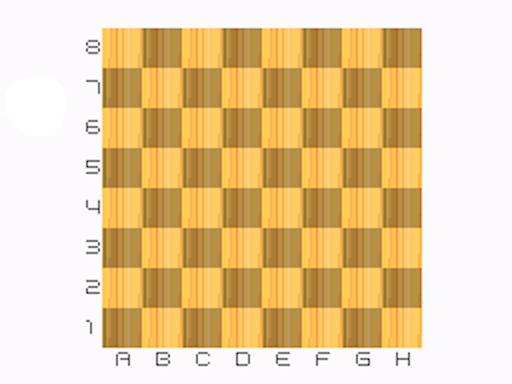
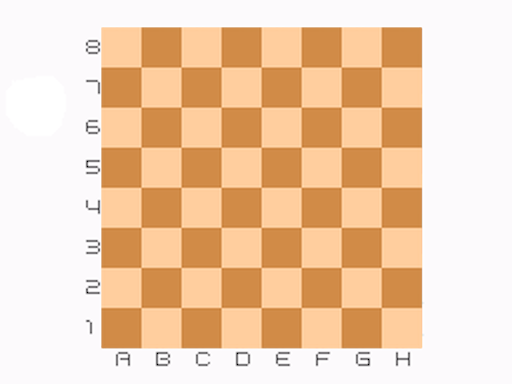
Now with free sprite images

diff --git a/battleChess.py b/battleChess.py
@@ -42,18 +42,18 @@ class BoardPlayer(Board):
 				if c == '':
 					continue
 				else :
-					dx = 2
-					dy = 2
+					dx = 0
+					dy = 0
 					if c[1] == 'b':
-						dx += 84
+						dx += 72
 					if c[0] in ['n', 'r', 'b']:
-						dx += 42
+						dx += 36
 					if c[0] in ['q', 'r']:
-						dy += 42
+						dy += 36
 					if c[0] in ['p', 'b']:
-						dy += 84
+						dy += 72
 					patch_rect = (dx, dy, 36, 36)
-					screen.blit(self.sprite_pieces, (106+j*40, 30+i*40), patch_rect)
+					screen.blit(self.sprite_pieces, (104+j*40, 30+i*40), patch_rect)
 		if turn != None:
 			self.visibility = [[False for i in xrange(8)] for j in xrange(8)]
 			# get white piece
@@ -73,7 +73,7 @@ class BoardPlayer(Board):
 			for i in xrange(8):
 				for j in xrange(8):
 					if not self.visibility[i][j] :
-						screen.blit(fog, (106+j*40, 30+i*40))		
+						screen.blit(fog, (105+j*40, 30+i*40))
 		# draw possible displacement positions	
 		s = pygame.Surface((34, 34))
 		s.set_alpha(128)
@@ -85,25 +85,25 @@ class BoardPlayer(Board):
 		# draw taken pieces
 		# white 
 		for i, p in enumerate([p for p in self.taken if p[1] == 'w']) :
-			dx = 2
-			dy = 2
+			dx = 0
+			dy = 0
 			if p[0] in ['n', 'r', 'b']:
-				dx += 42
+				dx += 36
 			if p[0] in ['q', 'r']:
-				dy += 42
+				dy += 36
 			if p[0] in ['p', 'b']:
-				dy += 84
+				dy += 72
 			patch_rect = (dx, dy, 36, 36)
 			screen.blit(self.sprite_pieces, (6+(i%2)*40, 20+(i/2)*40), patch_rect)
 		for i, p in enumerate([p for p in self.taken if p[1] == 'b']) :
-			dx = 86
-			dy = 2
+			dx = 72
+			dy = 0
 			if p[0] in ['n', 'r', 'b']:
-				dx += 42
+				dx += 36
 			if p[0] in ['q', 'r']:
-				dy += 42
+				dy += 36
 			if p[0] in ['p', 'b']:
-				dy += 84
+				dy += 72
 			patch_rect = (dx, dy, 36, 36)
 			screen.blit(self.sprite_pieces, (426+(i%2)*40, 338-(i/2)*40), patch_rect)
 			
@@ -121,8 +121,8 @@ class BoardPlayer(Board):
 
 def loadData():
 	sprite_board = pygame.image.load('data/board.png').convert(24)
-	sprite_pieces = pygame.image.load('data/pieces.png').convert(24)
-	sprite_pieces.set_colorkey((255,255,255))
+	sprite_pieces = pygame.image.load('data/pieces.png')
+	#sprite_pieces.set_colorkey((255,0,255)) # for non-transparent png, chroma-keying
 	sprite_pieces = sprite_pieces.convert_alpha(sprite_pieces)
 	sniper = pygame.mixer.Sound('data/sniper.wav')
 	return [sprite_board, sprite_pieces, sniper]

diff --git a/Readme.md b/Readme.md
@@ -85,6 +85,9 @@ That new rule has some direct consequences on the gameplay.
 	Antoine Letouzey -- [antoine.letouzey@gmail.com](antoine.letouzey@gmail.com)    
 	Pol Monsó-Purtí  -- [pol.monso@gmail.com](pol.monso@gmail.com)  
 
+- Sprites :
+	Original sprites by Wikipedia user Cburnett, under Creative Commons Licence (CC BY-SA 3.0)
+
 - Licence : GPL
 
 ## Screenshots :
